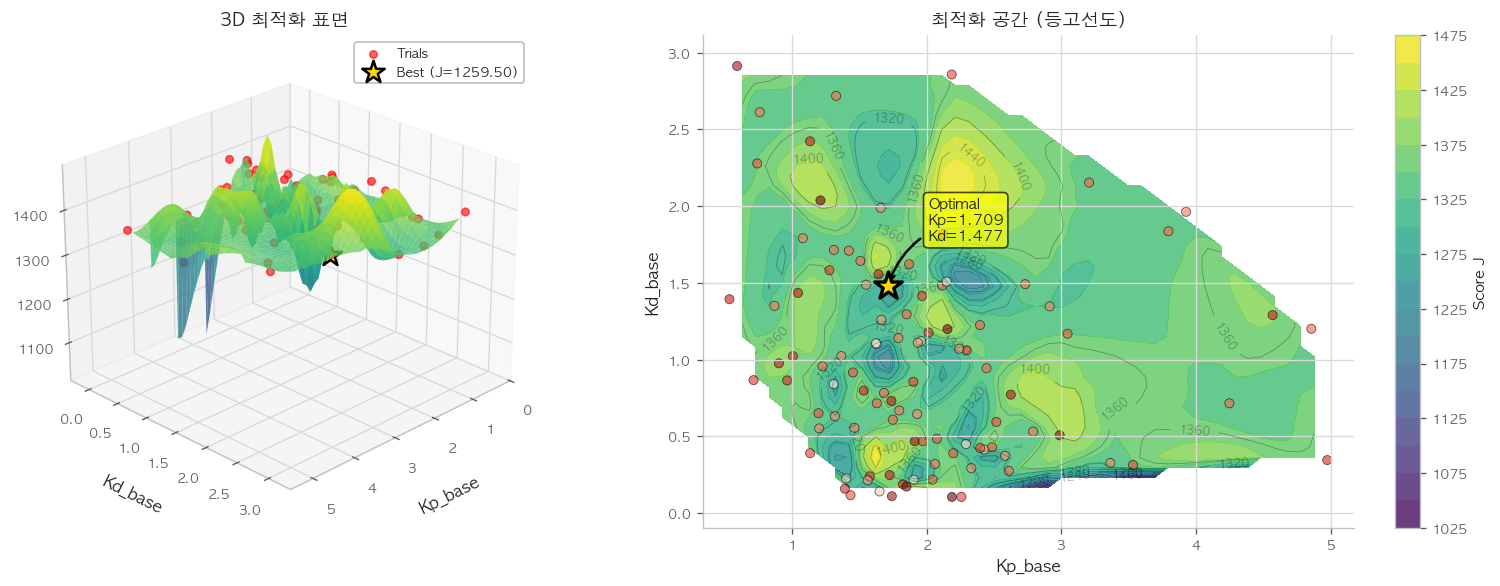
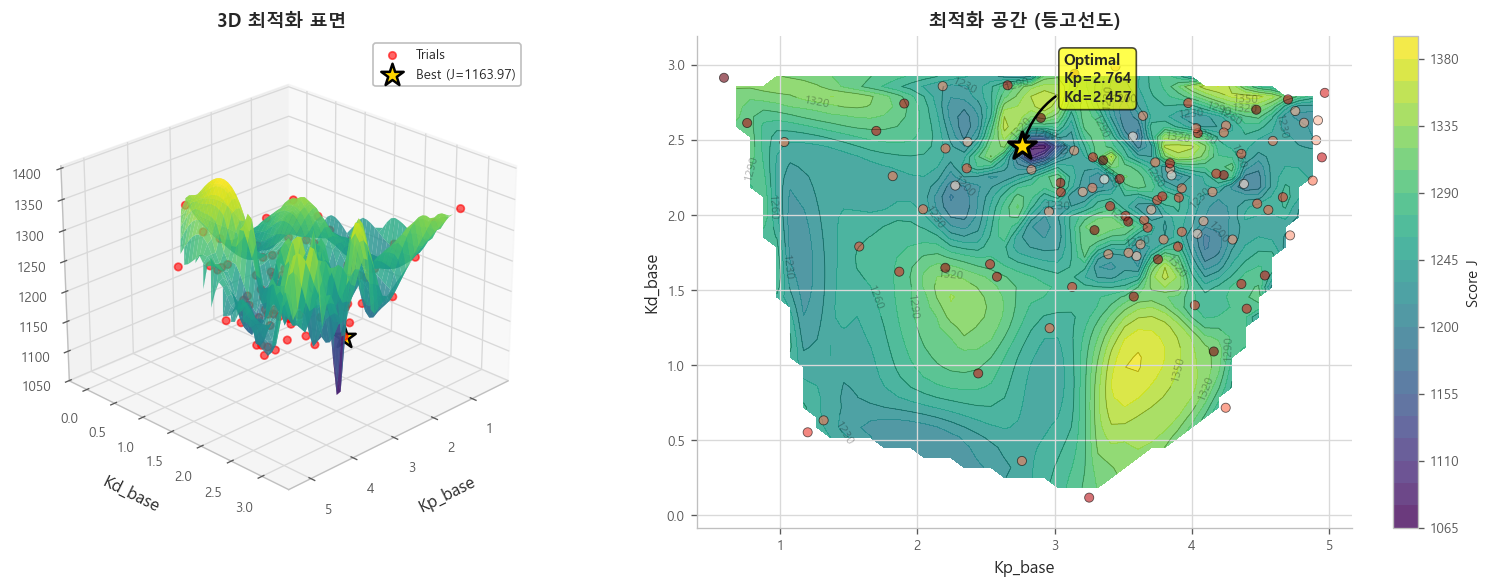
gain변경

diff --git a/rocket/Simulator/rocket_model.py b/rocket/Simulator/rocket_model.py
@@ -30,8 +30,8 @@ DEFAULT_PARAMS = {
 
     # 공기역학 (움직이는 핀 2개 기준)
     "rho"           : 1.225,           # [kg/m³]  공기밀도 (해수면)
-    "S"             : 0.00102,         # [m²]     조종면 면적 510mm²×2 — 실측
-    "l"             : 0.172,           # [m]      조종면 중심~로켓 중심축 거리 — 실측
+    "S"             : 0.003,         # [m²]     조종면 면적 510mm²×2 — 실측
+    "l"             : 0.154,           # [m]      조종면 중심~로켓 중심축 거리 — 실측
     "Cl_alpha"      : 2.26,            # [1/rad]  ← OpenRocket으로 재측정 권장
     "Cd_roll"       : 0.02,            # [-]      roll 댐핑 계수 (공기 마찰)
 

diff --git a/rocket/pinMain/pinMain_imu_bmp/pin.cpp b/rocket/pinMain/pinMain_imu_bmp/pin.cpp
@@ -131,8 +131,8 @@ static inline float MAG_Z() {
 void getKPKD(float vel, float& kp, float& kd) {
   const float V_BASE = 2000.0f;
 
-  const float KP_BASE = 2.7958f;
-  const float KD_BASE = 0.3371f;
+  const float KP_BASE = 2.7635f;
+  const float KD_BASE = 2.4571f;
 
   if (vel <= 100.0f) {
     vel = 1.0f;
